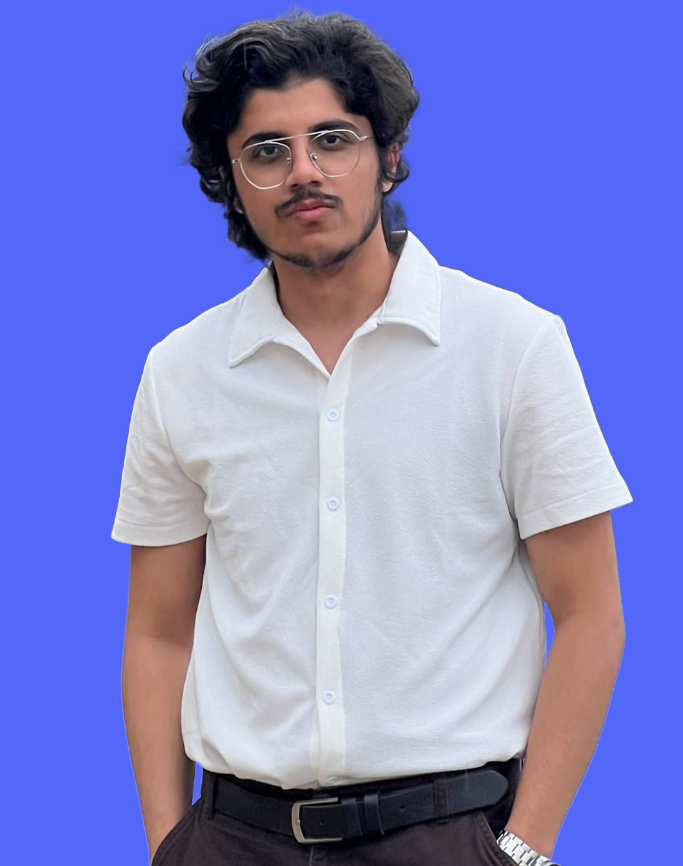
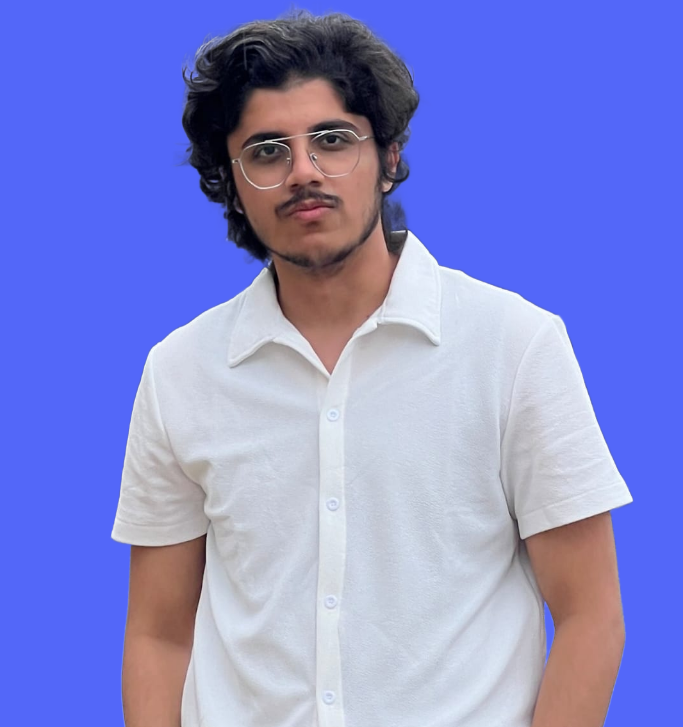
image changed

diff --git a/index.html b/index.html
@@ -126,7 +126,7 @@
             </div>
             <div class="col-4 col-5-large col-12-medium">
                 <span class="image fit"><img src="assets/images/usman.png"
-                                             <img src="assets/images/usman.png" alt="" style="border:1px solid #021a40; transform: scale(0.8);" />
+                                             <img src="assets/images/test.jpg" alt="" style="border:1px solid #021a40; transform: scale(0.8);" />
 
             </div>
         </div>
